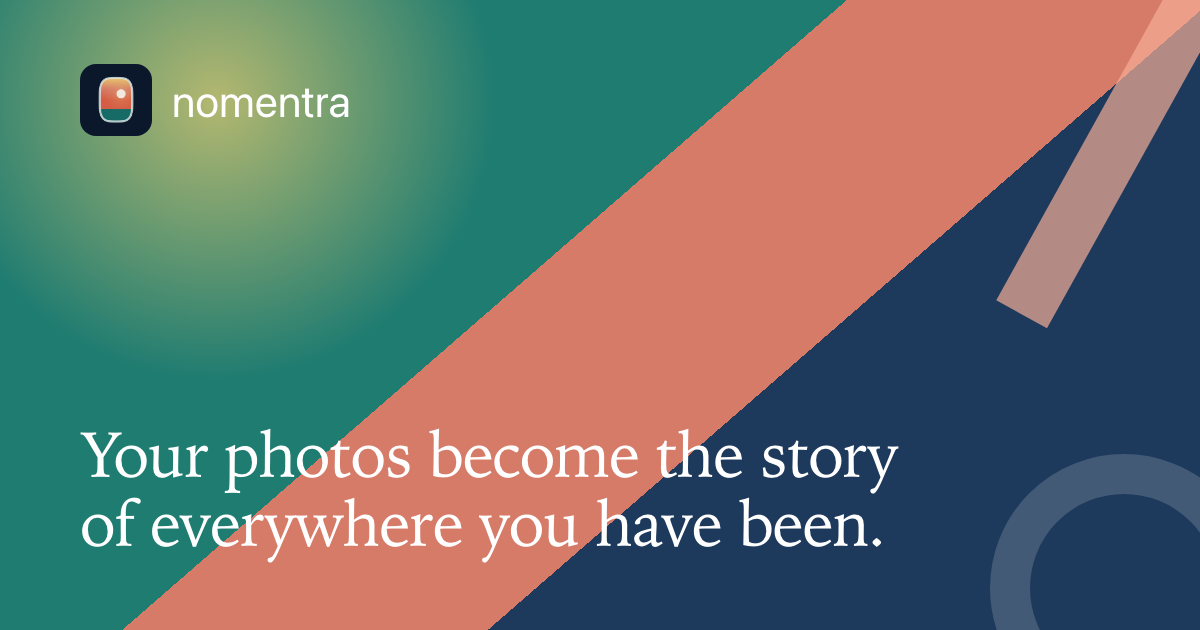
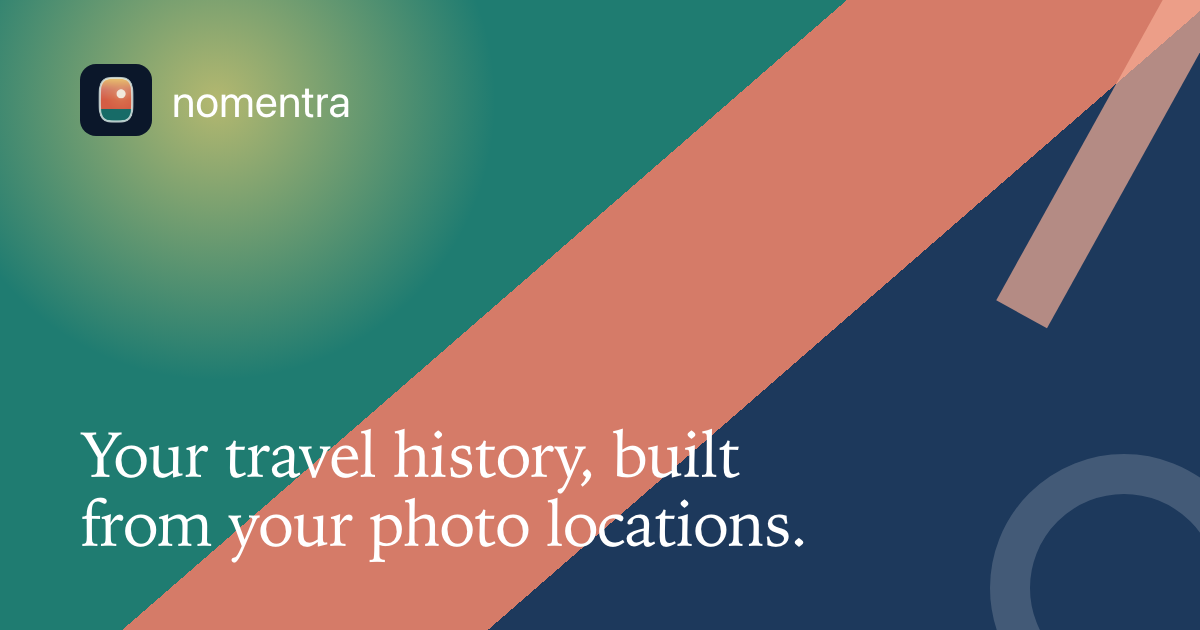
Make every website sentence match what the app's code does
Codex checked every public claim against the code on 19 November 2026
(Nomentra-clean/fable-dispatch/codex-audit-claims-vs-code-2026-11-19.md).
Text only; no layout or style change.

Homepage
- Headline, title, sharing text and sharing image: "Your travel history,
  built from your photo locations." (photos without a location give no
  evidence).
- Introduction: the countries, trips and days the photo locations record;
  milestones collected; World Heritage sites ticked off by the person (the
  app never finds them in photos).
- "Every trip, kept" / "Relive every trip" now say "your trips".
- Collect the world: no "each one with your photo on it"; countries found
  in photo locations.
- Relive your trips: recorded days; phone location with permission; review
  and fill gaps (no "nothing to type").
- Know where you stand: no "most of them come down to days"; no "in a
  minute".
- Plans: "2 active day trackers. A tracker you switch off can be switched on
  again after 30 days." replaces "a swap once a month"; Premium: unlimited
  day trackers.
- Every free-months line: "3 months free for eligible new subscribers.
  Renews annually unless cancelled." The status line now says "Free to
  download".
- Footer: "Day counts do not determine your legal or tax status." replaces
  "only a qualified adviser can confirm your position".

Privacy Policy (date 19 November 2026)
- Apple also handles purchases and subscription checks.
[…]

Changed region(s): [[0.0617, 0.7841, 0.74, 0.9048], [0.185, 0.6635, 0.74, 0.7841]]

diff --git a/index.html b/index.html
@@ -3,8 +3,8 @@
 <head>
 <meta charset="utf-8">
 <meta name="viewport" content="width=device-width, initial-scale=1, viewport-fit=cover">
-<title>Nomentra — Your photos become the story of everywhere you have been</title>
-<meta name="description" content="Nomentra reads the photos already on your iPhone and builds your travel history: every country, every trip, every day, with your pictures on it.">
+<title>Nomentra — Your travel history, built from your photo locations</title>
+<meta name="description" content="Nomentra reads the dates and locations of the photos already on your iPhone and builds your travel history: the countries, trips and days they record.">
 <link rel="canonical" href="https://nomentra.app/">
 <meta name="theme-color" content="#F3F0E9" media="(prefers-color-scheme: light)">
 <meta name="theme-color" content="#0E1521" media="(prefers-color-scheme: dark)">
@@ -13,13 +13,13 @@
 <link rel="apple-touch-icon" href="/apple-touch-icon.png">
 <meta property="og:type" content="website">
 <meta property="og:site_name" content="Nomentra">
-<meta property="og:title" content="Nomentra — Your photos become the story of everywhere you have been">
-<meta property="og:description" content="Nomentra reads the photos already on your iPhone and builds your travel history: every country, every trip, every day, with your pictures on it. From that history it collects your achievements, from capitals to World Heritage sites, and counts the days that matter for tax and visa rules, with the official rule one tap away. Your photos and videos stay in your photo library.">
+<meta property="og:title" content="Nomentra — Your travel history, built from your photo locations">
+<meta property="og:description" content="Nomentra reads the dates and locations of the photos already on your iPhone and builds your travel history: the countries, trips and days they record. It collects your milestones, lets you tick off the World Heritage sites you have seen, and counts the days that matter for tax and visa rules, with the official rule one tap away. Your photos and videos stay in your photo library.">
 <meta property="og:url" content="https://nomentra.app/">
 <meta property="og:image" content="https://nomentra.app/assets/og.png">
 <meta property="og:image:width" content="1200">
 <meta property="og:image:height" content="630">
-<meta property="og:image:alt" content="Nomentra. Your photos become the story of everywhere you have been.">
+<meta property="og:image:alt" content="Nomentra. Your travel history, built from your photo locations.">
 <meta name="twitter:card" content="summary_large_image">
 <link rel="stylesheet" href="style.css">
 </head>
@@ -38,15 +38,15 @@
   <div class="ribbon band">
     <div class="ribbon-art" aria-hidden="true"><span class="ribbon-ring"></span><span class="ribbon-strip"></span></div>
     <div class="wrap band-hero">
-      <p class="status">For iPhone · 3 months free</p>
-      <h1>Your photos become the story of everywhere you have been.</h1>
+      <p class="status">For iPhone · Free to download</p>
+      <h1>Your travel history, built from your photo locations.</h1>
       <div class="hero-get">
         <a class="store-badge" href="https://apps.apple.com/app/id6806285118"><img src="assets/app-store-badge.svg" width="150" height="50" alt="Download on the App Store"></a>
-        <p>Free to download. Annual subscriptions, free for the first 3 months for new subscribers.</p>
+        <p>3&nbsp;months free for eligible new subscribers. Renews annually unless cancelled.</p>
       </div>
       <ul class="feature-row">
         <li>Your days, counted</li>
-        <li>Every trip, kept</li>
+        <li>Your trips, kept</li>
         <li>Collect the world</li>
         <li>Know where you stand</li>
         <li>Build your own rule</li>
@@ -56,7 +56,7 @@
   </div>
 
   <div class="wrap hero">
-    <p class="lede">Nomentra reads the photos already on your iPhone and builds your travel history: every country, every trip, every day, with your pictures on it. From that history it collects your achievements, from capitals to World Heritage sites, and counts the days that matter for tax and visa rules, with the official rule one tap away. Your photos and videos stay in your photo library.</p>
+    <p class="lede">Nomentra reads the dates and locations of the photos already on your iPhone and builds your travel history: the countries, trips and days they record. It collects your milestones, lets you tick off the World Heritage sites you have seen, and counts the days that matter for tax and visa rules, with the official rule one tap away. Your photos and videos stay in your photo library.</p>
     <figure class="phones">
       <div class="phones-row">
         <div class="phone"><img src="assets/app-home-ribbon.webp?v=20261114" width="786" height="1704" alt="Nomentra Home with travel totals, recent travel and trackers."></div>
@@ -78,15 +78,15 @@
       <ul class="benefit-grid">
         <li>
           <h2>Collect the world</h2>
-          <p>Every country you have ever visited, found in your own photos. Capitals, towns and cities, US states, World Heritage sites: each one a badge, each one with your photo on it. Watch the map fill in. See how far your longest trip took you, and how many days in a row you have been on the road.</p>
+          <p>Find the countries recorded in your photo locations. Collect capitals, towns and cities, US states and World Heritage sites. Watch the map fill in. See how far your longest trip took you, and how many days in a row you have been on the road.</p>
         </li>
         <li>
-          <h2>Relive every trip</h2>
-          <p>A calendar of every day with the flag of where you were. A page for every country and every trip, with your pictures. Your first visit, your longest stay, your latest day. Nothing to type: your history builds itself, and your iPhone’s location keeps it going.</p>
+          <h2>Relive your trips</h2>
+          <p>A calendar of your recorded days and countries. A page for every country and every trip, with your pictures. Your first visit, your longest stay, your latest day. Your history builds from your photo locations. Add your iPhone’s location as you travel, with your permission. Review and fill any gaps.</p>
         </li>
         <li>
           <h2>Know where you stand</h2>
-          <p>Tax residence, visas, settlement, citizenship: most of them come down to days. Nomentra counts yours for the UK, the US and US states, Schengen, Canada, Ireland and more, with a link to the official rule. One glance shows how many days you have, how many are left, and which days still need a word from you. Need something else? Build your own tracker in a minute and see the result before you save it.</p>
+          <p>Tax residence, visas, settlement, citizenship: Nomentra counts the days for rules in the UK, the US and US states, Schengen, Canada, Ireland and more, with a link to the official rule. One glance shows how many days you have, how many are left, and which days still need a word from you. Need something else? Build your own tracker and see the result before you save it.</p>
         </li>
         <li>
           <h2>Private, on your phone</h2>
@@ -107,13 +107,13 @@
   <div class="wrap closing">
     <section aria-labelledby="plans-title">
       <h2 id="plans-title">Plans</h2>
-      <p>Free: four achievements. Basic: every achievement and two trackers at a time, with a swap once a month. Premium: unlimited trackers. Annual subscriptions, free for the first 3 months for new subscribers. Your data and setup are never deleted when a plan changes.</p>
+      <p>Free: four achievements. Basic: every achievement and 2&nbsp;active day trackers. A tracker you switch off can be switched on again after 30&nbsp;days. Premium: unlimited day trackers. 3&nbsp;months free for eligible new subscribers. Renews annually unless cancelled. Your data and setup are never deleted when a plan changes.</p>
       <p class="note"><a href="https://www.apple.com/legal/internet-services/itunes/dev/stdeula/">Terms of Use</a></p>
     </section>
     <section aria-labelledby="coming-title">
       <h2 id="coming-title">Available on the App Store</h2>
       <p><a class="store-badge" href="https://apps.apple.com/app/id6806285118"><img src="assets/app-store-badge.svg" width="120" height="40" alt="Download on the App Store"></a></p>
-      <p>Free to download. Basic and Premium are free for your first 3 months. Requires iOS 26 or later.</p>
+      <p>Free to download. Basic and Premium: 3&nbsp;months free for eligible new subscribers. Renews annually unless cancelled. Requires iOS&nbsp;26 or later.</p>
     </section>
   </div>
 </main>
@@ -130,7 +130,7 @@ b.addEventListener('click',function(){v.muted=!v.muted;var on=!v.muted;b.setAttr
     <a href="support/">Support</a>
   </nav>
   <span>© 2026 Ossian House Holding Ltd · Registered in Cyprus, HE 490388</span>
-  <p class="not-advice">Nomentra counts days from your records. It is not legal or tax advice. Rules change, counts can differ from an official count, and only a qualified adviser can confirm your position.</p>
+  <p class="not-advice">Nomentra counts days from your records. It is not legal or tax advice. Rules change, and counts can differ from an official count. Day counts do not determine your legal or tax status.</p>
 </footer>
 </body>
 </html>

diff --git a/privacy/index.html b/privacy/index.html
@@ -19,7 +19,7 @@
 <meta property="og:image" content="https://nomentra.app/assets/og.png">
 <meta property="og:image:width" content="1200">
 <meta property="og:image:height" content="630">
-<meta property="og:image:alt" content="Nomentra. Know where you’ve been.">
+<meta property="og:image:alt" content="Nomentra. Your travel history, built from your photo locations.">
 <meta name="twitter:card" content="summary_large_image">
 <link rel="stylesheet" href="../style.css">
 </head>
@@ -36,7 +36,7 @@
 
 <main id="main" class="wrap narrow doc">
   <h1>Privacy Policy</h1>
-  <p class="updated">Last updated: 17 October 2026</p>
+  <p class="updated">Last updated: 19 November 2026</p>
   <p class="intro">This policy explains what Nomentra for iPhone does with your information, and what this website does. It describes the current version of the app.</p>
 
   <section class="panel" aria-labelledby="glance">
@@ -155,8 +155,8 @@
 
   <section aria-labelledby="receive">
     <h2 id="receive">What we receive</h2>
-    <p>Nomentra does not send your travel record, photos or location to us. For automatic app data processing, Nomentra uses the Apple services described above. Links and email open only when you choose them.</p>
-    <p>We receive information only in these cases:</p>
+    <p>Nomentra does not send your travel record, photos or location to us. For automatic app data processing, Nomentra uses the Apple services described above. Apple also handles purchases and subscription checks. Links and email open only when you choose them.</p>
+    <p>We receive information only when you email us, and in the crash and performance reports Apple may share under your settings (see <a href="#diagnostics">Diagnostics and analytics</a>).</p>
     <h3>You email us</h3>
     <p>We receive your email address and whatever you choose to write. If you start the email from Send feedback in the app, the draft includes the app version, build number and iOS version. You can read and edit the draft before sending, and nothing else is attached automatically.</p>
     <p>Our mailbox is provided by Google. We use your message only to reply and to fix the problem.</p>

diff --git a/support/index.html b/support/index.html
@@ -19,7 +19,7 @@
 <meta property="og:image" content="https://nomentra.app/assets/og.png">
 <meta property="og:image:width" content="1200">
 <meta property="og:image:height" content="630">
-<meta property="og:image:alt" content="Nomentra. Know where you’ve been.">
+<meta property="og:image:alt" content="Nomentra. Your travel history, built from your photo locations.">
 <meta name="twitter:card" content="summary_large_image">
 <link rel="stylesheet" href="../style.css">
 </head>

diff --git a/tools/og.html b/tools/og.html
@@ -20,7 +20,7 @@ body{position:relative;background:var(--hero-base)}
 <div class="og ribbon">
   <div class="ribbon-art" aria-hidden="true"><span class="ribbon-ring"></span><span class="ribbon-strip"></span></div>
   <div class="og-brand"><img src="../assets/icon-512.png" alt="">nomentra</div>
-  <h1>Your photos become the story of everywhere you have been.</h1>
+  <h1>Your travel history, built from your photo locations.</h1>
 </div>
 </body>
 </html>

diff --git a/README.md b/README.md
@@ -27,8 +27,8 @@ Static website for Nomentra: plain HTML and one stylesheet. No build step, no sc
   ```
 
   The suite alone, once the simulator is prepared: `TEST_RUNNER_NOMENTRA_SITE_CAPTURES=1 xcodebuild test-without-building -project Nomentra.xcodeproj -scheme Nomentra -destination 'platform=iOS Simulator,id=<udid>' -parallel-testing-enabled NO -collect-test-diagnostics never -only-testing:NomentraTests/SiteStoreCaptureTests` (store screenshots also need `Scripts/site-captures/host-screenshots.sh` running). Then here: `python3 tools/update-captures.py --og`, and check every alt text's figures against the new images.
-- **Homepage copy**: the owner’s final App Store description of 14 October 2026 (tagline, lead, Collect the world, Relive every trip, Know where you stand, Private, on your phone, its not-advice paragraph and Plans). The homepage footer carries that not-advice paragraph; the other pages' footers carry the app's sentence (`AppCopy` `notAdvice`). Available on the App Store (released 13 November 2026), with Apple's badge linking to `https://apps.apple.com/app/id6806285118`, and Requires iOS 26 or later. The band's six short lines are the store screenshot captions.
-- **Privacy Policy**: written from the app source on `main` at `f0210f43` (1 October 2026), approved wording in `docs/PRD_wording.md`, Feature PRD 13 and WEB-01/02 in `docs/plan/settings-release-simplification.md`. Re-check it whenever the app's data practices change, and change the “Last updated” date. Last revised for launch on 14 October 2026.
+- **Homepage copy**: the owner’s final App Store description of 14 October 2026 (tagline, lead, Collect the world, Relive every trip, Know where you stand, Private, on your phone, its not-advice paragraph and Plans). The homepage footer carries that not-advice paragraph; the other pages' footers carry the app's sentence (`AppCopy` `notAdvice`). Available on the App Store (released 13 November 2026), with Apple's badge linking to `https://apps.apple.com/app/id6806285118`, and Requires iOS 26 or later. The band's six short lines are the store screenshot captions. Corrected on 19 November 2026 so that no sentence says more than the app's code does (Codex's claims check, `Nomentra-clean/fable-dispatch/codex-audit-claims-vs-code-2026-11-19.md`); the sharing image's headline changed with it. When 1.0.2 ships with milestones free (BUG-369), the Plans paragraph's "Free: four achievements. Basic: every achievement and" must change the same day.
+- **Privacy Policy**: written from the app source on `main` at `f0210f43` (1 October 2026), approved wording in `docs/PRD_wording.md`, Feature PRD 13 and WEB-01/02 in `docs/plan/settings-release-simplification.md`. Re-check it whenever the app's data practices change, and change the “Last updated” date. Last revised for launch on 14 October 2026. Revised on 19 November 2026: Apple's handling of purchases and subscription checks, and the two ways we receive information (your emails; Apple's crash and performance reports).
 - **Review**: reconciled against app main `1ca17eda` on 1 October 2026 (`Nomentra-clean/docs/audits/website-source-review-2026-10-01.md`). Send feedback and the privacy link are implemented on main; distribution and website publication are separate.
 
 ## Preview locally
